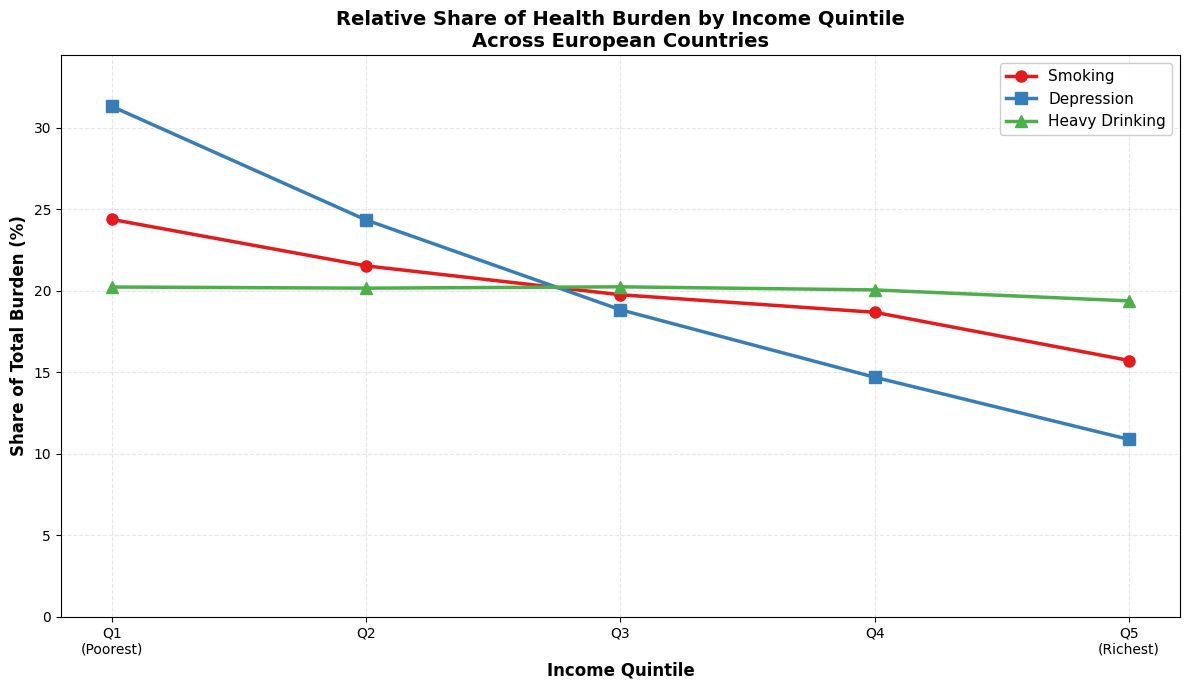
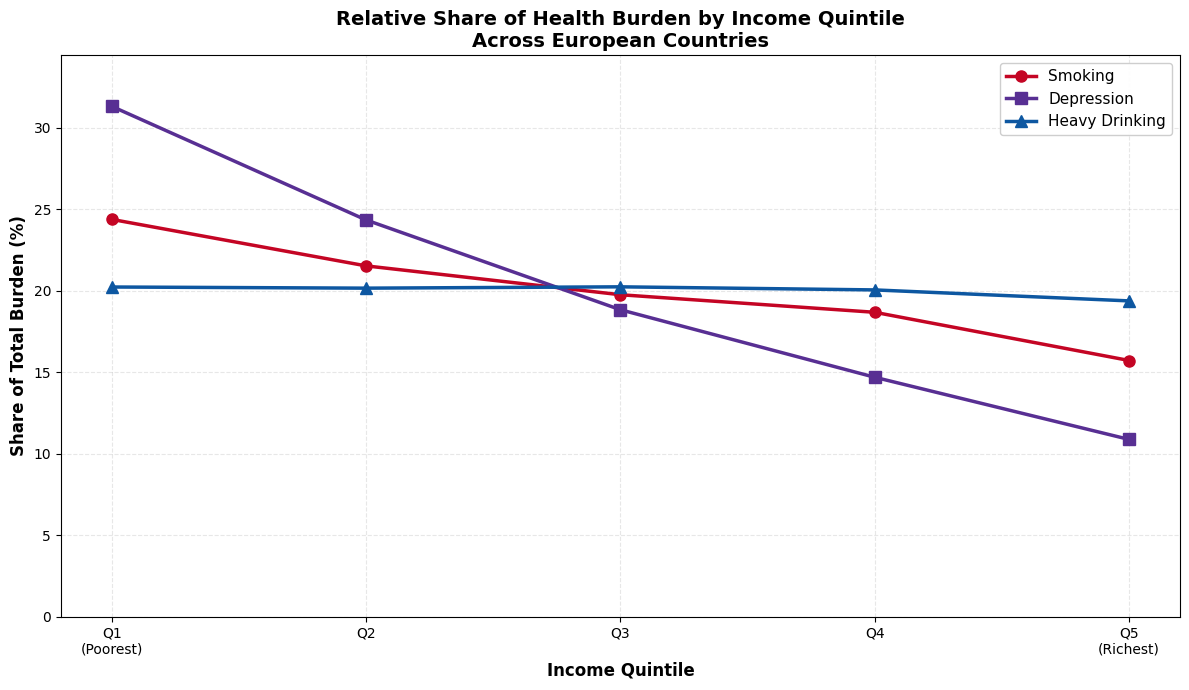
python code fixes

diff --git a/src/sections/StorySection.tsx b/src/sections/StorySection.tsx
@@ -1,3 +1,5 @@
+import type { ReactNode } from 'react'
+import { GapEvolutionChart } from '../charts/GapEvolutionChart'
 import {
   formatPercentNumber,
   getGapRows,
@@ -12,15 +14,23 @@ function SectionHeader({
 }: {
   kicker: string
   title: string
-  copy: string
+  copy?: string
 }) {
   return (
     <div className="narrative-heading">
       <p className="section-kicker">{kicker}</p>
       <h2>{title}</h2>
-      <p>{copy}</p>
+      {copy ? <p>{copy}</p> : null}
     </div>
   )
+}
+
+function StoryCopy({ children }: { children: ReactNode }) {
+  return <div className="story-copy">{children}</div>
+}
+
+function formatGapValue(value: number | null | undefined) {
+  return typeof value === 'number' ? `${formatPercentNumber(value)} pp` : 'No data'
 }
 
 function NotebookLayerMap() {
@@ -92,47 +102,45 @@ export function StorySection() {
   return (
     <>
       <section className="narrative-section hook-section" id="hook">
-        <SectionHeader
-          copy=""
-          kicker="01 Hook"
-          title="Health inequality is visible before you pick a country."
-        />
-        <p>
-          It can be wondered whether economic inequality affects more than just financial opportunities. 
-          Is there potentially a link between average income and overall well-being? 
-          It can be asked whether it also influences people’s mental and physical health. 
-          Income may shape habits such as smoking and alcohol consumption, while lower-income groups across Europe often report worse mental health outcomes and higher rates of unhealthy coping behaviors.   
-
-          This project explores the relationship between income inequality, depression, smoking, and drinking across European countries. 
-          By combining multiple datasets and visualizations, the analysis investigates whether lower income is associated with negative health outcomes and how these patterns vary geographically and over time.
-        </p>
+        <div className="story-intro">
+          <SectionHeader
+            kicker="01 Hook"
+            title="Health inequality is visible before you pick a country."
+          />
+          <StoryCopy>
+            <p>
+              It can be wondered whether economic inequality affects more than
+              just financial opportunities. Is there potentially a link between
+              average income and overall well-being? It can be asked whether it
+              also influences people’s mental and physical health. Income may
+              shape habits such as smoking and alcohol consumption, while
+              lower-income groups across Europe often report worse mental health
+              outcomes and higher rates of unhealthy coping behaviors.
+            </p>
+            <p>
+              This project explores the relationship between income inequality,
+              depression, smoking, and drinking across European countries. By
+              combining multiple datasets and visualizations, the analysis
+              investigates whether lower income is associated with negative health
+              outcomes and how these patterns vary geographically and over time.
+            </p>
+          </StoryCopy>
+        </div>
 
         <div className="hook-stat-grid" aria-label="Key findings">
           <div>
             <span>Smoking gap</span>
-            <strong>
-              {smokingGap?.end
-                ? `${formatPercentNumber(smokingGap.end)} pp`
-                : 'No data'}
-            </strong>
+            <strong>{formatGapValue(smokingGap?.end)}</strong>
             <p>Higher rate in the first income quintile than in the fifth.</p>
           </div>
           <div>
             <span>Drinking gap</span>
-            <strong>
-              {drinkingGap?.end
-                ? `${formatPercentNumber(drinkingGap.end)} pp`
-                : 'No data'}
-            </strong>
+            <strong>{formatGapValue(drinkingGap?.end)}</strong>
             <p>Higher rate in the fifth income quintile than in the first.</p>
           </div>
           <div>
             <span>Depression gap</span>
-            <strong>
-              {depressionGap?.end
-                ? `${formatPercentNumber(depressionGap.end)} pp`
-                : 'No data'}
-            </strong>
+            <strong>{formatGapValue(depressionGap?.end)}</strong>
             <p>Higher rate in the first income quintile than in the fifth.</p>
           </div>
         </div>
@@ -140,71 +148,114 @@ export function StorySection() {
 
       <section className="narrative-section" id="main-finding">
         <SectionHeader
-          copy=""
           kicker="02 Main Finding"
           title="Income quintile changes the shape of each health outcome."
         />
-        <p>
-          Our first visualization compares income quintiles with mental health outcomes across Europe. 
-          Looking at the data, a clear social difference is shown; individuals in lower income groups consistently report higher levels of depression and poorer overall well-being compared to higher income groups. 
-
-          The multi-line chart shows that health inequality is not evenly distributed. 
-          As income increases, negative health outcomes generally decrease, suggesting a strong correlation between economic status and mental health. 
-
-          This data supports the idea that financial insecurity may contribute to stress and thus, unhealthy coping mechanisms such as heavy alcohol consumption and smoking. 
-        </p>
+        <StoryCopy>
+          <p>
+            Our first visualization compares income quintiles with mental health
+            outcomes across Europe. Looking at the data, a clear social
+            difference is shown; individuals in lower income groups consistently
+            report higher levels of depression and poorer overall well-being
+            compared to higher income groups.
+          </p>
+          <p>
+            The multi-line chart shows that health inequality is not evenly
+            distributed. As income increases, negative health outcomes generally
+            decrease, suggesting a strong correlation between economic status and
+            mental health.
+          </p>
+          <p>
+            This data supports the idea that financial insecurity may contribute
+            to stress and thus, unhealthy coping mechanisms such as heavy alcohol
+            consumption and smoking.
+          </p>
+        </StoryCopy>
         <NotebookRelativeShareDiagram />
       </section>
 
       <section className="narrative-section" id="geographic-pattern">
         <SectionHeader
-          copy=""
           kicker="03 Geographic Pattern"
           title="Countries do not share one inequality profile."
         />
-        <p>
-          While income inequality exists across Europe, its impacts of the social well-being of countries vary greatly. 
-          The heatmap reveals regional patterns in smoking, alcohol consumption, and depression rates. 
-          Northern and Eastern European countries show different behavioral trends compared to Southern Europe, suggesting that cultural norms, healthcare systems, and social policies may influence how people respond to economic stress. 
-
-          Darker colors show higher rates, while lighter colors show lower rates. 
-          By switching between smoking, drinking, and depression tabs, you can explore how these issues overlap geographically and identify countries where certain behaviors are especially pronounced. 
-        </p>
+        <StoryCopy>
+          <p>
+            While income inequality exists across Europe, its impacts of the
+            social well-being of countries vary greatly. The heatmap reveals
+            regional patterns in smoking, alcohol consumption, and depression
+            rates.
+          </p>
+          <p>
+            Northern and Eastern European countries show different behavioral
+            trends compared to Southern Europe, suggesting that cultural norms,
+            healthcare systems, and social policies may influence how people
+            respond to economic stress.
+          </p>
+          <p>
+            Darker colors show higher rates, while lighter colors show lower
+            rates. By switching between smoking, drinking, and depression tabs,
+            you can explore how these issues overlap geographically and identify
+            countries where certain behaviors are especially pronounced.
+          </p>
+        </StoryCopy>
         <NotebookLayerMap />
       </section>
 
       <section className="narrative-section" id="time-evolution">
         <SectionHeader
-          copy=""
           kicker="04 Time Evolution"
           title="The gaps did not all move in the same direction."
         />
-        <p>
-          To understand whether these inequalities are changing over time, we compare data from 2014 and 2019. 
-          The visualizations show that in several countries, the gap between income groups either increased or remained stable. 
-          This change or lack of change in economic growth implies that economic growth alone does not necessarily reduce health inequality. 
-          In certain cases, improvements in overall living standards may benefit higher-income groups more than lower-income populations. 
-
-          Tracking these changes over time helps reveal whether European countries are moving toward greater equality or deeper social divides. 
-        </p>
+        <StoryCopy>
+          <p>
+            To understand whether these inequalities are changing over time, we
+            compare data from 2014 and 2019. The visualizations show that in
+            several countries, the gap between income groups either increased or
+            remained stable.
+          </p>
+          <p>
+            This change or lack of change in economic growth implies that
+            economic growth alone does not necessarily reduce health inequality.
+            In certain cases, improvements in overall living standards may
+            benefit higher-income groups more than lower-income populations.
+          </p>
+          <p>
+            Tracking these changes over time helps reveal whether European
+            countries are moving toward greater equality or deeper social divides.
+          </p>
+        </StoryCopy>
+        <GapEvolutionChart />
+      </section>
 
       <section className="narrative-section" id="country-exception">
         <SectionHeader
-          copy=""
           kicker="05 Country Exception"
           title="Turkey reverses the smoking gradient."
         />
-        <p>
-          Furthermore, we compared the highest median income country, Norway, with the lowest median income country, Turkey, to further explore the health and income disparity.  
-
-          Turkey stands out as an interesting exception, as unlike the other European countries mapped, smoking behavior does not follow the same income-related pattern.  
-
-          Lower income groups tend to smoke more across Europe, however, in Turkey a weaker or reversed relationship is shown. 
-          This suggests that there are other factors that contribute to the results of the data.  
-
-          This exception highlights why it is important to take context and culture into consideration when analyzing data. 
-          While broad trends across Europe may exist, individual countries may challenge the consensus by revealing a more complex social dynamic. 
-        </p>
+        <StoryCopy>
+          <p>
+            Furthermore, we compared the highest median income country, Norway,
+            with the lowest median income country, Turkey, to further explore the
+            health and income disparity.
+          </p>
+          <p>
+            Turkey stands out as an interesting exception, as unlike the other
+            European countries mapped, smoking behavior does not follow the same
+            income-related pattern.
+          </p>
+          <p>
+            Lower income groups tend to smoke more across Europe, however, in
+            Turkey a weaker or reversed relationship is shown. This suggests that
+            there are other factors that contribute to the results of the data.
+          </p>
+          <p>
+            This exception highlights why it is important to take context and
+            culture into consideration when analyzing data. While broad trends
+            across Europe may exist, individual countries may challenge the
+            consensus by revealing a more complex social dynamic.
+          </p>
+        </StoryCopy>
         <CountryExceptionHealthDiagram />
       </section>
     </>

diff --git a/src/App.css b/src/App.css
@@ -583,6 +583,30 @@ h1 {
   line-height: 1.7;
 }
 
+.story-intro {
+  display: grid;
+  gap: 18px;
+  min-width: 0;
+  max-width: 980px;
+}
+
+.story-copy {
+  display: grid;
+  gap: 12px;
+  max-width: 980px;
+}
+
+.story-copy p {
+  color: var(--ecl-color-primary-160);
+  font-size: 1rem;
+  font-weight: 600;
+  line-height: 1.72;
+}
+
+.hook-section .story-copy {
+  max-width: 820px;
+}
+
 .hook-stat-grid,
 .exception-stat-grid,
 .reflection-grid {